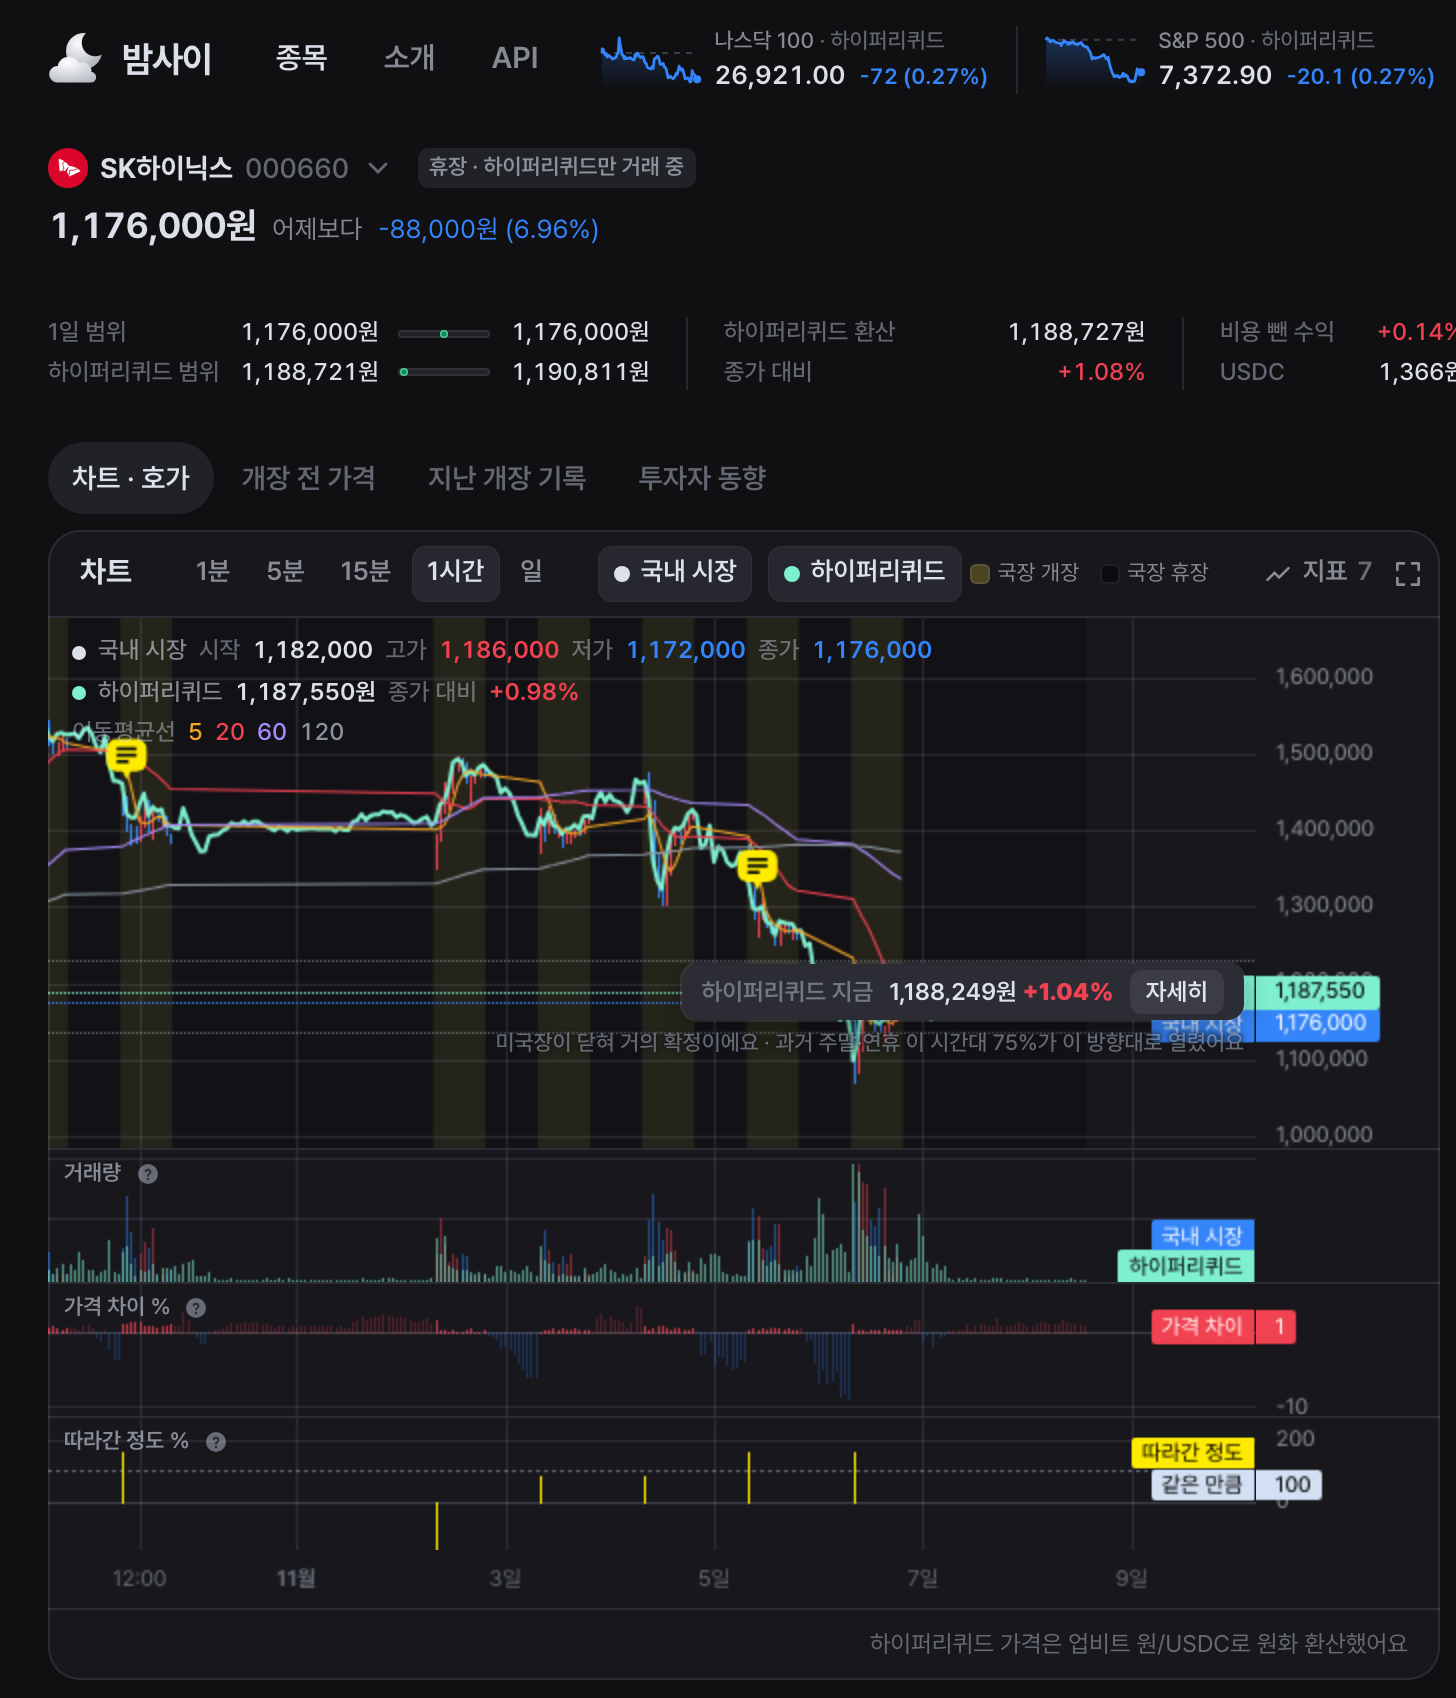
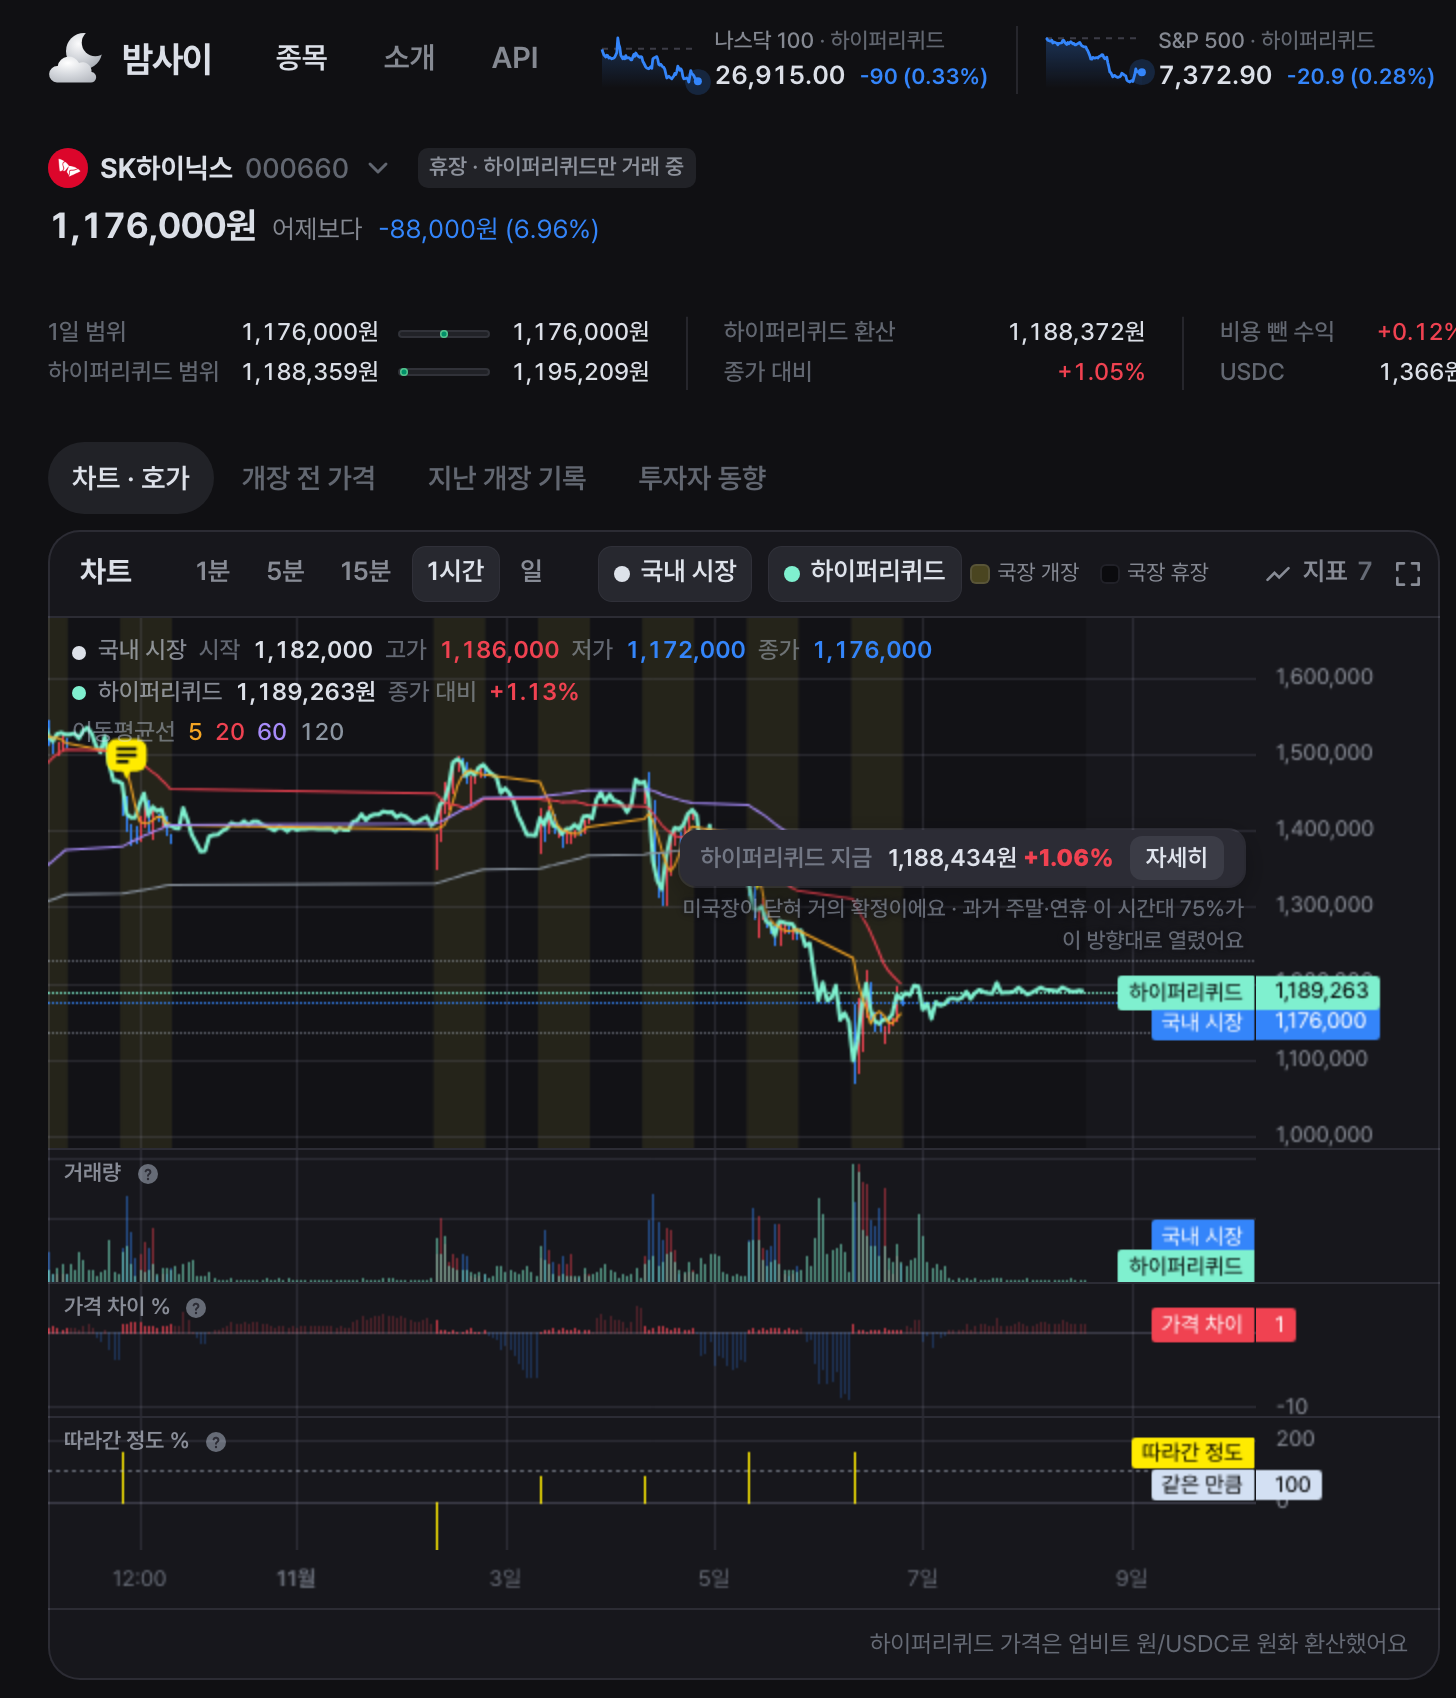
Chart: the news tooltip sits above the price notes
Both had z-index 4, so the 'Hyperliquid now' note, later in the DOM, covered the hovered news lines.

diff --git a/src/app.css b/src/app.css
@@ -503,7 +503,8 @@ body.is-resizing * {
   position: absolute;
   top: 0;
   left: 0;
-  z-index: 4;
+  /* Above the price notes (z 4): the bubble you are pointing at reads first */
+  z-index: 6;
   max-width: 240px;
   padding: 8px 10px;
   border-radius: 10px;
